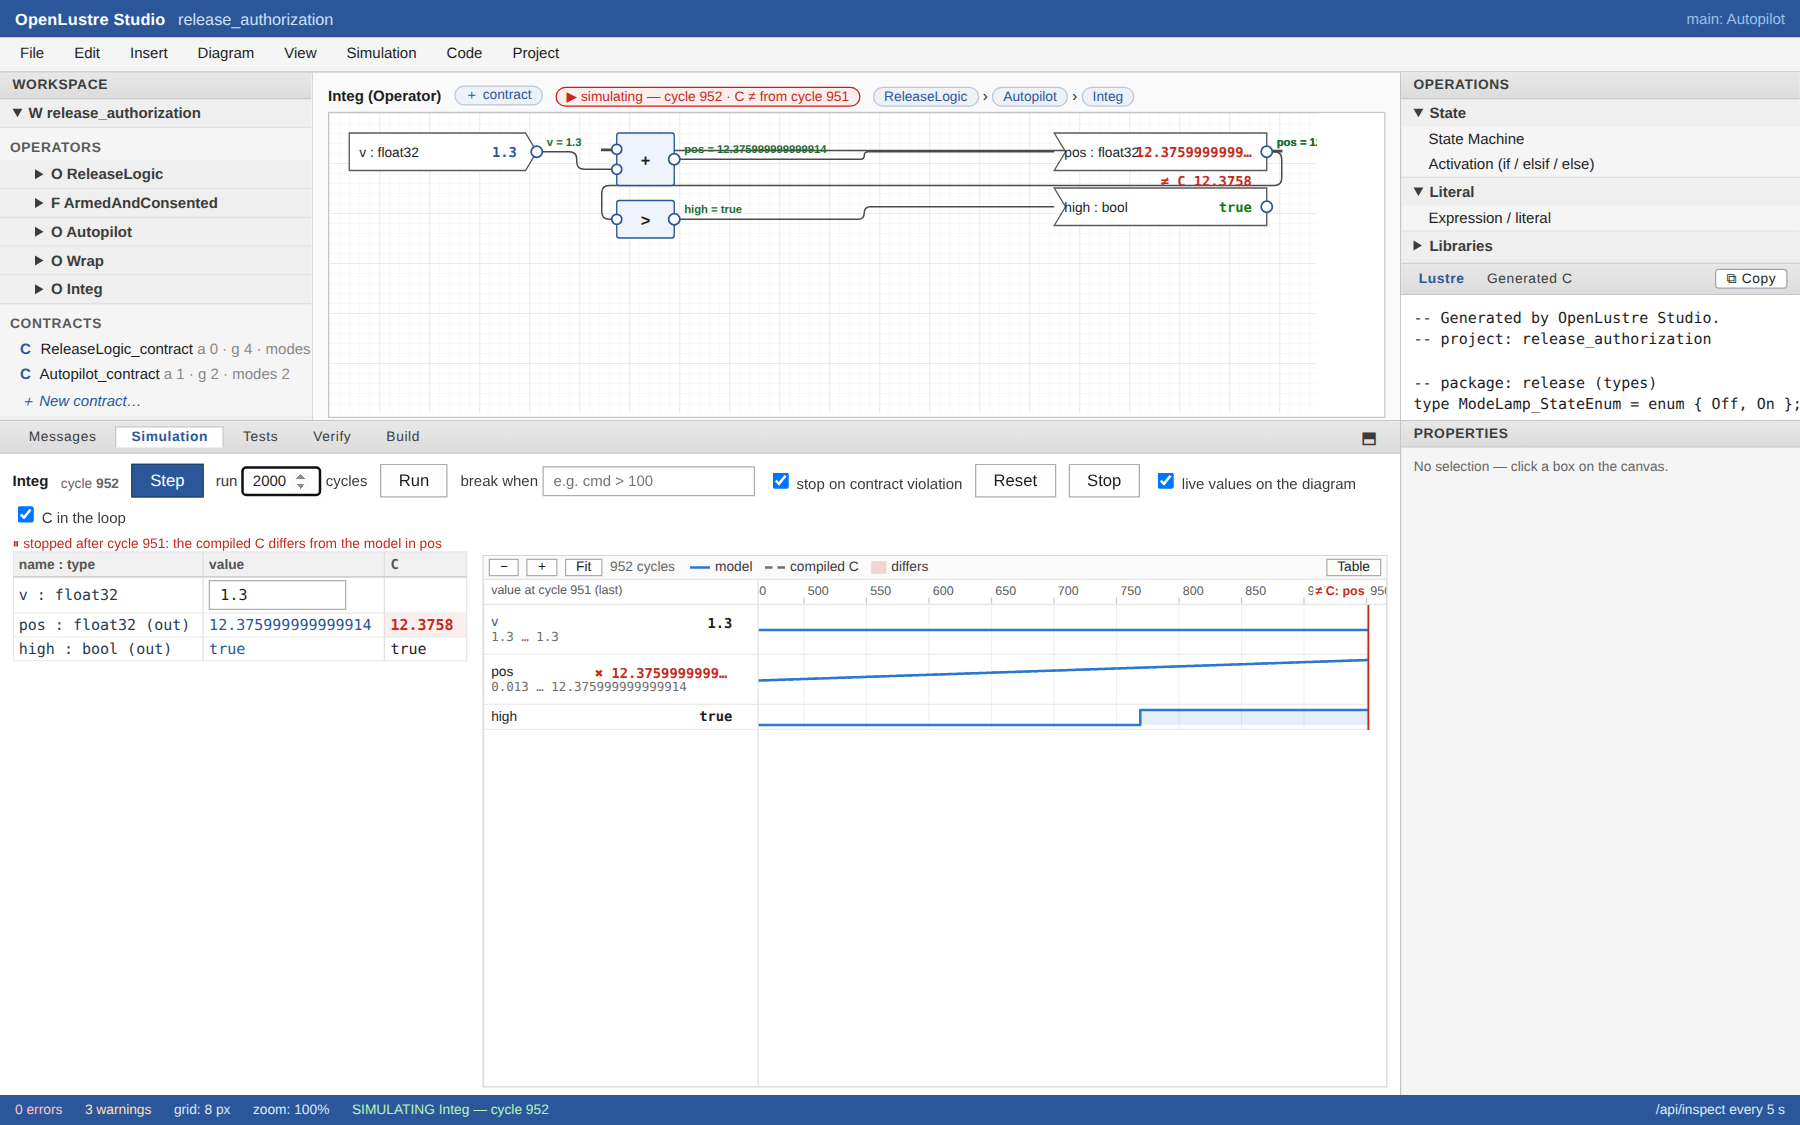
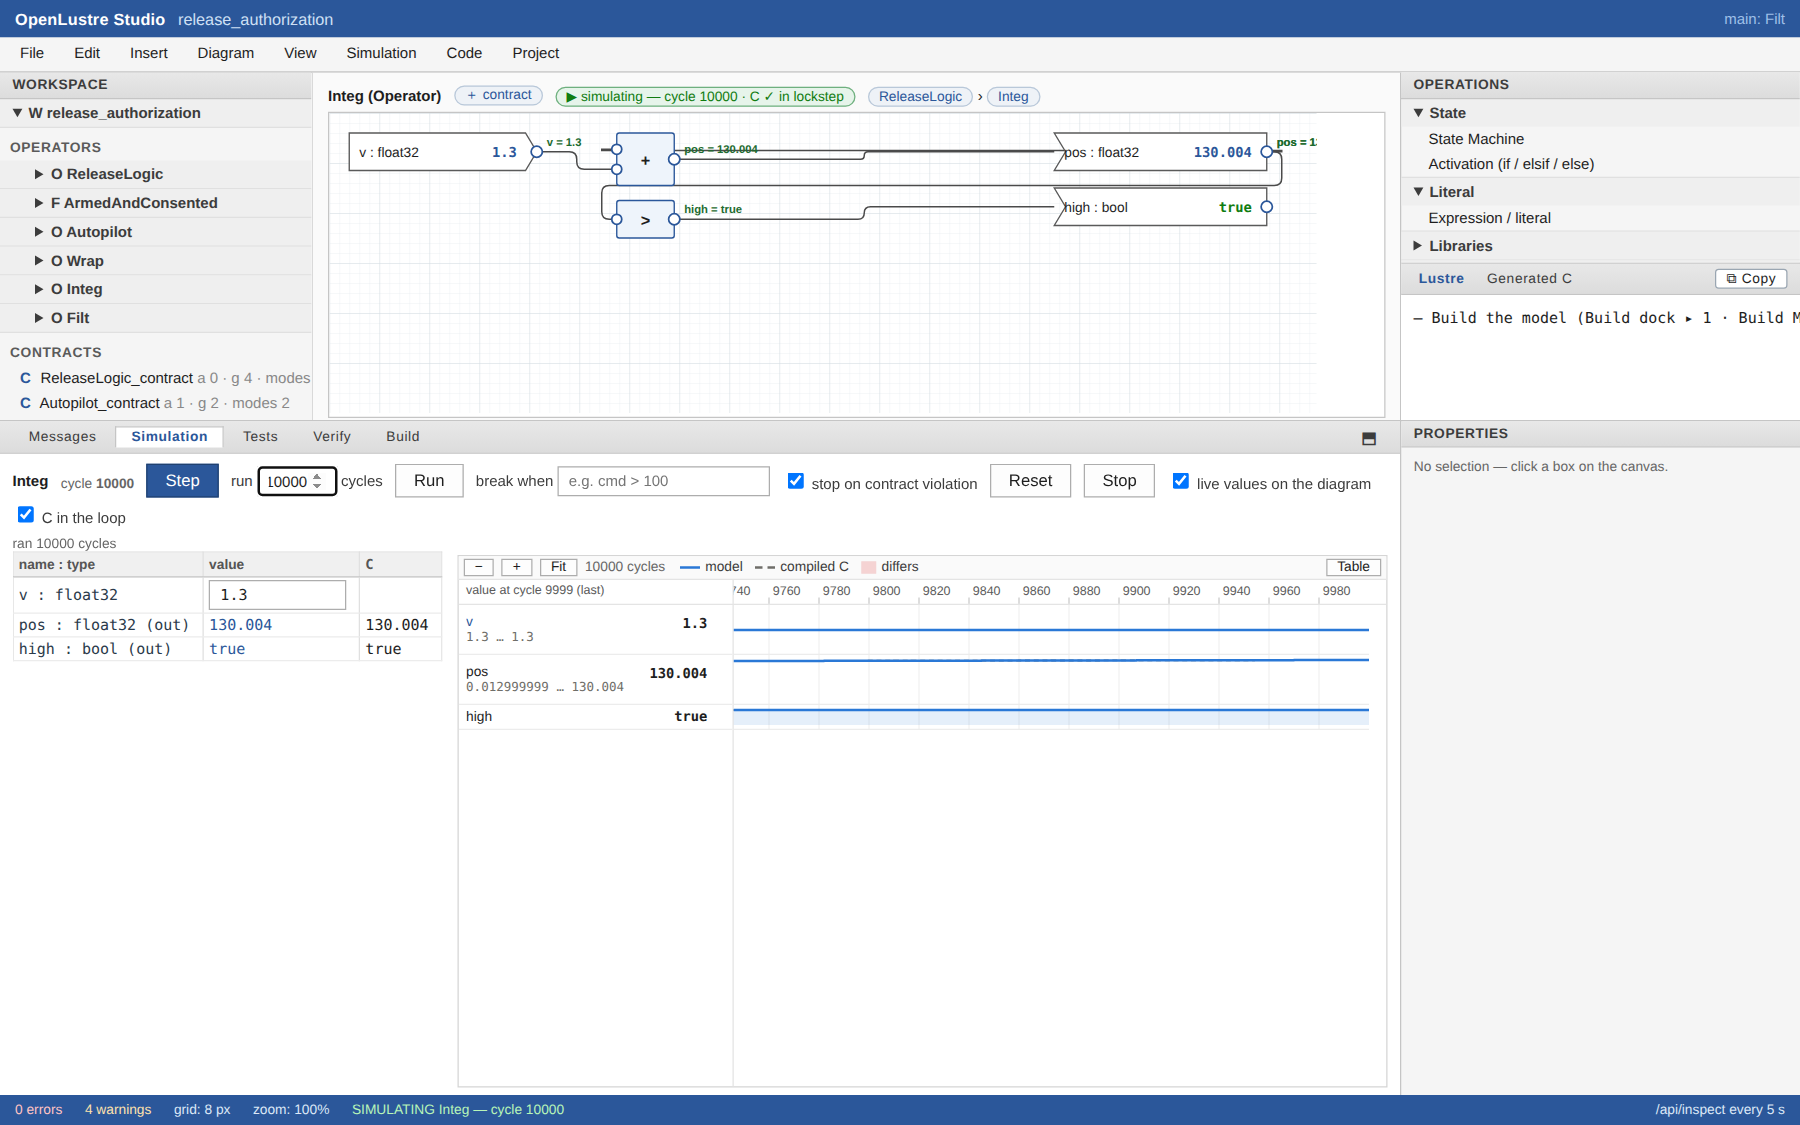
Docs: float32 fidelity (README, UI README, roadmap)
- README: C in the loop now reports the three model-vs-code differences
  it found as fixed; new "Reals behave as in the generated C" paragraph;
  the screenshot shows the float32 integrator 10 000 cycles in lockstep.
- apps/studio_ui/README.md: reals in c_diff compare exactly.
- Roadmap: item 6b done (and the int-typed real literal it uncovered);
  the float32 gap removed; next step is clocked activation (item 4).

Claude-Session: https://claude.ai/code/session_01ARWWbwokK1sRGBJaLctJ4t

diff --git a/docs/scade-parity-roadmap.md b/docs/scade-parity-roadmap.md
@@ -71,18 +71,18 @@ were silent):
   200 + 100 stayed 300; the C stores 44) — it now converts on store exactly
   as C does; and it rejected enum-typed inputs outright — they now parse by
   variant name.
+- Also found by it: `float32` was simulated in double precision, and a real
+  literal with an integral value (`0.0`) was emitted as a C *int* literal,
+  which silently kept neighbouring arithmetic in `float`. The simulator now
+  computes `float32` in single precision with C's promotion rules, real
+  literals are always C double literals, and both sides print reals with
+  one shortest round-trip algorithm (item 6b).
 
 **Known semantic gap (documented):** activations are stage 1 — branches are
 *selected*, not *clocked*. `pre` inside a branch reads the previous cycle
 (like SCADE `last`), not the branch's previous activation. Models that rely
 on frozen inactive branches will behave differently than in SCADE.
 
-**Known fidelity gap (found by C in the loop):** the simulator carries
-`float32` values in double precision, while the generated C computes in
-`float`. An integrator (`pos = (0.0 -> pre pos) + v * 0.01` with `v = 1.3`)
-drifts past the comparison's six significant digits after ~950 cycles
-(model 12.376, C 12.3758). The batch harness compares traces as text, so it
-would also flag float values whose `%g` and Rust spellings differ.
 
 ## Recommendations
 
@@ -141,16 +141,24 @@ Sizes: **S** ≈ a session, **M** ≈ 2–3 sessions, **L** ≈ 4+.
    the simulated operator (reusing the build while the model is unchanged)
    and runs its CSV driver as a child process, fed the same inputs each
    cycle. Outputs and contract-monitor columns are compared every cycle
-   (enums by name, floats within `%g` precision); the waveform draws the C
+   (enums by name, reals exactly — see 6b); the waveform draws the C
    as each lane's reference, the watch table gains a C column, the diagram
    shows "≠ C value" under a disagreeing output, and a Run stops at the
    first divergence. Attaching mid-session replays the history first. It
    found two simulator bugs on its first runs (above) and one open gap
    (`float32`, above).
-6b. **Float32 fidelity (S–M).** Round `float32` values to single precision
-   on store in the simulator (as it now does for sized integers), print them
-   by their `f32` spelling, and compare float columns numerically in the
-   batch harness as the Studio's lockstep comparison already does.
+6b. ✅ **Float32 fidelity — done.** The simulator has a single-precision
+   real: `float op float` computes in `float`; a `float64` operand or a real
+   literal promotes to `double` (C's usual arithmetic conversions); `if` /
+   `->` / `merge` take their branches' common type like `?:`; storing,
+   passing arguments, reading inputs and evaluating constants convert to
+   the declared type. The C emitter writes real literals as C double
+   literals (`0.0` used to come out as the int `0`), the CSV driver reads
+   `float32` inputs with `strtof`, and both sides print reals with one
+   shortest round-trip positional algorithm — so traces stay byte-identical
+   and C in the loop compares reals exactly. The integrator that drifted
+   now runs 10 000 cycles in lockstep; a filter / all-float / float64 /
+   cast / call mix matches over 3000 cycles (`tests/float_fidelity.rs`).
 7. **Target integration (M).** Cross-compilation toolchains (the Compile
    dialog's disabled option), cyclic-task wrapper templates (bare-metal loop,
    RTOS task), configurable symbol prefixes.
@@ -185,12 +193,12 @@ Sizes: **S** ≈ a session, **M** ≈ 2–3 sessions, **L** ≈ 4+.
 
 ## Suggested next step
 
-The P0 items are done, and so is item 6: the compiled C now runs in
-lockstep with the simulator in the Simulation dock, so model-vs-code
-divergence shows on the cycle it happens rather than only in batch tests.
+The P0 items and items 6 / 6b are done: the compiled C runs in lockstep with
+the simulator, and every difference it found between model and code —
+integer wrap, enum inputs, `float32` precision, an int-typed real literal —
+is fixed, with the simulator now following C's arithmetic exactly.
 
-Next is item **6b** (float32 fidelity): it is small, and it closes the one
-model-vs-code gap C in the loop surfaced that is still open — which matters
-directly for the project's claim that the generated C is equivalent to the
-simulated model. After it, item **4** (clocked activation) closes the known
-semantic gap with SCADE's activate-if.
+Next is item **4** (clocked activation): the one remaining known semantic
+gap with SCADE. Inactive activation branches should freeze their state, and
+the lockstep and byte-identical trace checks are now strong enough to gate
+that change cycle by cycle.

diff --git a/README.md b/README.md
@@ -101,12 +101,22 @@ compared as they come. The compiled C's values are drawn as the waveform's
 reference lanes, the watch table gets a C column, a disagreeing output shows
 "≠ C value" on the diagram, and a Run stops at the first cycle where model
 and code part. Attaching mid-run replays the session so far through the C
-first. On its first runs it caught two simulator bugs, both since fixed
-(sized integers didn't wrap on assignment; enum inputs were rejected). It
-also caught a gap that is still open: `float32` is simulated in double
-precision, so a long-running integrator drifts from the C.
+first. On its first runs it caught three real model-vs-code differences,
+all since fixed: sized integers didn't wrap on assignment, enum inputs were
+rejected, and `float32` was simulated in double precision (a long-running
+integrator drifted from the C after ~950 cycles).
 
-![C in the loop in OpenLustre Studio — a float32 integrator stopped at cycle 951, where the compiled C (12.3758) first departs from the model (12.376): the chip reads "C ≠ from cycle 951", the watch table's C column is red, the diagram shows "≠ C 12.3758" under the output, and the waveform marks the divergence.](docs/screenshots/09-c-in-the-loop.png)
+**Reals behave as in the generated C.** `float32` computes in single
+precision (`float op float` stays `float`), a `float64` operand or a real
+literal (always emitted as a C double literal) promotes to `double`, a
+conditional takes its branches' common type as C's `?:` does, and storing,
+passing an argument or reading an input converts to the declared type.
+Model and C traces print reals with the same shortest round-trip algorithm,
+so they match byte for byte — the integrator above now runs 10 000 cycles
+in lockstep and reads 130.004 on both sides (single-precision drift,
+modelled rather than hidden).
+
+![C in the loop in OpenLustre Studio — a float32 integrator after 10 000 cycles with the compiled C in lockstep: the chip reads "C ✓ in lockstep", the watch table's C column matches the model (pos = 130.004), and the waveform shows no differing cycles.](docs/screenshots/09-c-in-the-loop.png)
 
 Where the Studio stands against the project's goals, and what comes next, is
 tracked in [docs/scade-parity-roadmap.md](docs/scade-parity-roadmap.md).

diff --git a/apps/studio_ui/README.md b/apps/studio_ui/README.md
@@ -96,7 +96,8 @@ answer is `{attached, reused_build, columns, rows: [{cycle, c, c_diff}],
 diverged_at}` — the session's history replayed through the C. From then on
 each step row carries `c` (the C's outputs and `active_mode` /
 `violations`, enums by name) and `c_diff` (the columns that disagree:
-floats within the driver's `%g` precision, everything else as text), and
+reals compared as numbers — both sides print them with the same shortest
+round-trip algorithm, so equal means identical — everything else as text), and
 `"stop_on_divergence": true` ends a run on the first disagreeing cycle. A C
 program that exits, hangs (5 s) or prints something unexpected is detached
 and reported in `c_error`. `{"on": false}` detaches it.
